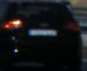
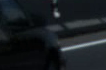
multiple scene detections

diff --git a/src/train_epochs.py b/src/train_epochs.py
@@ -4,7 +4,7 @@ import numpy as np
 import torch
 from torch.torch_version import TorchVersion
 from torchvision.transforms import Resize
-from train_utils import MyCustomError
+from .train_utils import MyCustomError
 from intention_prediction.src.train_utils import apply_bboxes
 from ..conf.conf_py import _PADDED_FRAMES
 import cv2
@@ -359,38 +359,63 @@ def val_one_epoch_with_detection(*args , **kwargs)->Dict:
 
             frames_temp = np.array([np.array(x.detach().cpu()) for x in frames_temp])
 
+            #find bboxes by detectron2
             bboxes = []
             pred_classes = []
             for frame in frames_temp:
+
                 frame = np.transpose(frame , (1,2,0))
                 assert frame.shape[2]==3 and frame.shape[0]>0 and frame.shape[1]>0
                 frame = cv2.cvtColor(frame , cv2.COLOR_RGB2BGR)
                 bboxes.append(detector(frame)["instances"].pred_boxes)
                 pred_classes.append(detector(frame)["instances"].pred_classes)
             bboxes = torch.tensor(bboxes)
+
             try:
-
                 frames_cropped = apply_bboxes(frames_temp , bboxes ,  pred_classes)  #return MxN frames,where n= frames in segment,M=Detections
-            except MyCustomError as I:
+            except MyCustomError as I:  #if no bboxes by detectron2
                 print("no bounding boxes detected ... resizing...")
-                
-                frames_cropped = Resize(200 , 200 )(frames_temp)
-                
+                frames_temp = np.transpose(frames_temp , (0,2,3,1))
+                frames_cropped = np.array([cv2.resize(x , dsize=(200,200) , interpolation=cv2.INTER_AREA) for x in frames_temp])
+            finally:
+                print("continueing")
+
+            #loop over frame, detections-could be multiple
             for detected_car in frames_cropped:
+                if isinstance(detected_car,list): ##means there are multiple detections in that frame
+                    for detection in detected_car:
+                        detected_car = torch.tensor(detection , dtype=torch.float,device=dev).permute((2,0,1))
+                        prediction = model(detected_car)
+                
+                        loss = criterion(prediction, maneuver_type)
 
-                prediction = model(detected_car)
+                        #to comute eval metrics
+                        predictions_epoch.append(prediction.detach().cpu().numpy())
+                        labels_epoch.append(maneuver_type.detach().cpu().numpy())
+
+                        loss_epoch.append(loss.item())
+                
+                        pbar.set_postfix_str("Val Batch loss {:0.2f}".format(loss.item()))
+
+                        
+                else:                 #one detection
+                    assert detected_car.size(0)==1 #1 batch
+                    detected_car = torch.tensor(detected_car , dtype=torch.float,device=dev).permute((0,2,0,1))
+
+
+                    prediction = model(detected_car)
+                
+                    loss = criterion(prediction, maneuver_type)
+
+                    #to comute eval metrics
+                    predictions_epoch.append(prediction.detach().cpu().numpy())
+                    labels_epoch.append(maneuver_type.detach().cpu().numpy())
+
+                    loss_epoch.append(loss.item())
             
-                loss = criterion(prediction, maneuver_type)
+                    pbar.set_postfix_str("Val Batch loss {:0.2f}".format(loss.item()))
 
-                #to comute eval metrics
-                predictions_epoch.append(prediction.detach().cpu().numpy())
-                labels_epoch.append(maneuver_type.detach().cpu().numpy())
-
-                loss_epoch.append(loss.item())
-        
-                pbar.set_postfix_str("Val Batch loss {:0.2f}".format(loss.item()))
-
-                max_epochs_val+=1
+                    max_epochs_val+=1
 
 
 

diff --git a/src/train_utils.py b/src/train_utils.py
@@ -1,6 +1,7 @@
 
 from typing import List
 from matplotlib import pyplot as plt
+import numpy as np
 from torch import optim
 import torch
 
@@ -84,25 +85,32 @@ def apply_bboxes(frames: List[torch.tensor],
     """
 
     frame_out = []
-    for frame , bboxes ,  class_detect in zip(frames , bbox, classes): #for all frames in current segment, and all bbox list on same segment
-        if bboxes ==[] :raise MyCustomError("Found empty bboxes for class car object ... terminating")
-        if bboxes!=[]:
-            frame_temp=[]
-            for bbox in bboxes:
-                frame_temp= []
-                print("Detected class is {}".format(class_detect))
-                if class_detect =="car" and delta_x == None and delta_y==None:
+    if not torch.any(bbox.view(-1)):
+        raise MyCustomError("Found empty bboxes for frame stack ... terminating")
+    else:
+        for frame , bboxes ,  class_detect in zip(frames , bbox, classes): #for all frames in current segment, and all bbox list on same segment
             
-                    frame = frame[bboxes[1] :bboxes[1]+bboxes[3] , bboxes[2]:bboxes[2]+bboxes[4]]
+            if len(bboxes.size()) == 0 :
+                raise MyCustomError("Found empty bboxes for singular frme of video segment stack ... terminating/inteprolate?") 
+                
+            else:
+                frame_temp=[]
+                for bbox in bboxes:
+                    frame_temp= []
+                    print("Detected class is {}".format(class_detect))
+                    if class_detect =="car" and delta_x == None and delta_y==None:
+                
+                        frame = frame[bboxes[1] :bboxes[1]+bboxes[3] , bboxes[2]:bboxes[2]+bboxes[4]]
 
-                frame_temp.append(frame)
-
-            frame_temp =torch.tensor(frame_temp)
-            frame_out.append(frame_temp)
+                    frame_temp.append(frame)
 
 
-    frame_out = torch.tensor(frame_out)
-    return torch.tensor(frame_out).unsqueeze(0)
+                frame_temp =torch.tensor(frame_temp)
+                frame_out.append(frame_temp)
+
+
+        frame_out = torch.tensor(frame_out)
+        return torch.tensor(frame_out).unsqueeze(0)
 
 class MyCustomError(Exception):
     def __init__(self, message=None):
